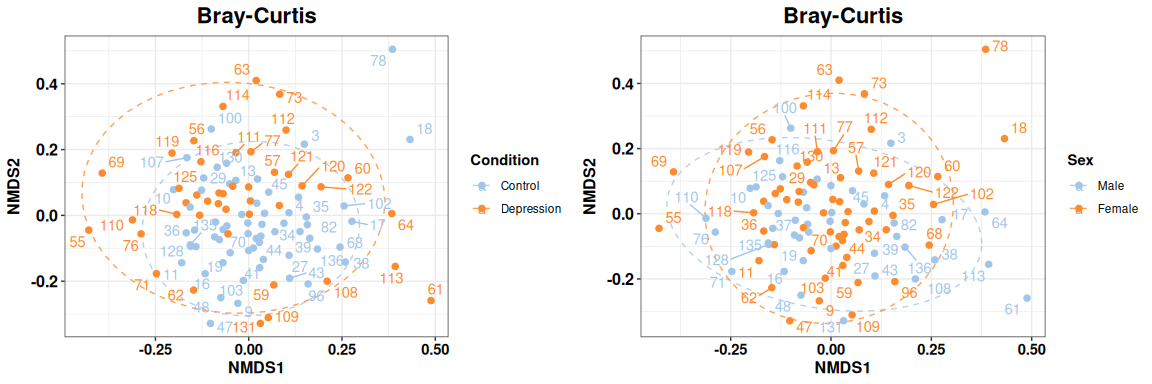
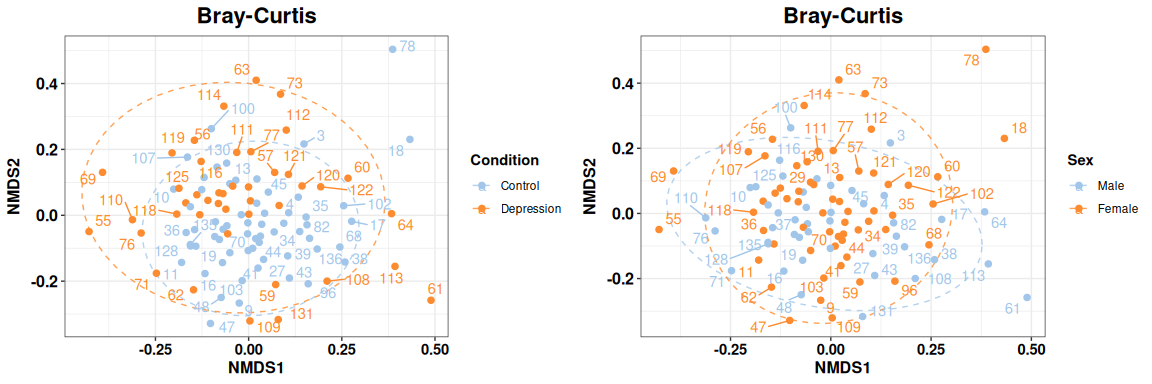
fixed GT sizes

diff --git a/README.md b/README.md
@@ -206,8 +206,6 @@ models$anovas %>% select(-mod1, -mod2, nvars, Index,
 Finally, plot differences (recalculating statistical tests):
 
 ``` r
-library(cowplot)
-
 cat_vars <- c("Condition", "Sex")
 num_vars <- c("BMI", "bristol_scale")
 
@@ -229,8 +227,6 @@ cowplot::plot_grid(plotlist = divplots, nrow = 4)
 PCoA on Bray-Curtis distances:
 
 ``` r
-library(cowplot)
-
 vars <- c("Condition", "Sex", "BMI")
 betaplots <- makeAllPCoAs(phobj_raref, outdir,
                           method = "PCoA",
@@ -250,8 +246,6 @@ cowplot::plot_grid(plotlist = betaplots, nrow = 3)
 NMDS on Bray-Curtis distances:
 
 ``` r
-library(cowplot)
-
 vars <- c("Condition", "Sex")
 betaplots <- makeAllPCoAs(phobj_raref, outdir,
                           method = "NMDS",
@@ -265,37 +259,35 @@ betaplots <- makeAllPCoAs(phobj_raref, outdir,
 #> Square root transformation
 #> Wisconsin double standardization
 #> Run 0 stress 0.2424031 
-#> Run 1 stress 0.2450441 
-#> Run 2 stress 0.2418238 
+#> Run 1 stress 0.2450175 
+#> Run 2 stress 0.2413875 
 #> ... New best solution
-#> ... Procrustes: rmse 0.03592079  max resid 0.2039121 
-#> Run 3 stress 0.2425736 
-#> Run 4 stress 0.2425657 
-#> Run 5 stress 0.2479826 
-#> Run 6 stress 0.2470064 
-#> Run 7 stress 0.243741 
-#> Run 8 stress 0.2436178 
-#> Run 9 stress 0.2453063 
-#> Run 10 stress 0.2422513 
-#> ... Procrustes: rmse 0.03546092  max resid 0.2062974 
-#> Run 11 stress 0.2447231 
-#> Run 12 stress 0.2504898 
-#> Run 13 stress 0.2412017 
+#> ... Procrustes: rmse 0.03453249  max resid 0.2040516 
+#> Run 3 stress 0.2479525 
+#> Run 4 stress 0.241074 
 #> ... New best solution
-#> ... Procrustes: rmse 0.01976362  max resid 0.1553633 
-#> Run 14 stress 0.2414831 
-#> ... Procrustes: rmse 0.01629938  max resid 0.1545399 
-#> Run 15 stress 0.2422512 
-#> Run 16 stress 0.2429346 
-#> Run 17 stress 0.2414664 
-#> ... Procrustes: rmse 0.01344268  max resid 0.09110863 
-#> Run 18 stress 0.2413492 
-#> ... Procrustes: rmse 0.01180794  max resid 0.08008196 
-#> Run 19 stress 0.2416823 
-#> ... Procrustes: rmse 0.01485076  max resid 0.08648119 
-#> Run 20 stress 0.2441167 
+#> ... Procrustes: rmse 0.01783737  max resid 0.1590581 
+#> Run 5 stress 0.2443354 
+#> Run 6 stress 0.2418592 
+#> Run 7 stress 0.2698389 
+#> Run 8 stress 0.2411031 
+#> ... Procrustes: rmse 0.003079735  max resid 0.02145552 
+#> Run 9 stress 0.2413875 
+#> ... Procrustes: rmse 0.01783647  max resid 0.158801 
+#> Run 10 stress 0.2418271 
+#> Run 11 stress 0.2423542 
+#> Run 12 stress 0.2453918 
+#> Run 13 stress 0.2451823 
+#> Run 14 stress 0.2418291 
+#> Run 15 stress 0.2425758 
+#> Run 16 stress 0.2426894 
+#> Run 17 stress 0.2454342 
+#> Run 18 stress 0.2423002 
+#> Run 19 stress 0.2429148 
+#> Run 20 stress 0.2418242 
 #> *** Best solution was not repeated -- monoMDS stopping criteria:
-#>     20: stress ratio > sratmax
+#>      3: no. of iterations >= maxit
+#>     17: stress ratio > sratmax
 
 cowplot::plot_grid(plotlist = betaplots, nrow = 1)
 ```
@@ -417,7 +409,7 @@ taxa2plot <- result$all_contrasts$Condition_Depression_vs_Control$resdf %>% filt
 gtt <- result$all_contrasts$Condition_Depression_vs_Control$res %>% getGTTableFromRes(taxa2plot, "DAA taxa in Depressed vs Controls")
 ```
 
-<img src="man/figures/gt_table.png" width="50%" style="display: block; margin: auto;" />
+<img src="man/figures/gt_table.png" width="70%" style="display: block; margin: auto;" />
 
 See results table for the contrast of Sex:
 
@@ -428,7 +420,7 @@ taxa2plot <- result$all_contrasts$Sex_Female_vs_Male$resdf %>% filter(!is.na(pad
 gtt <- result$all_contrasts$Sex_Female_vs_Male$res %>% getGTTableFromRes(taxa2plot, "DAA taxa in Women vs Men")
 ```
 
-<img src="man/figures/gt_table2.png" width="50%" style="display: block; margin: auto;" />
+<img src="man/figures/gt_table2.png" width="70%" style="display: block; margin: auto;" />
 
 See results table for the contrast of Age:
 
@@ -439,7 +431,7 @@ taxa2plot <- result$all_contrasts$Age$resdf %>% filter(!is.na(padj ) & padj < 0.
 gtt <- result$all_contrasts$Age$res %>% getGTTableFromRes(taxa2plot, "DAA taxa with Age")
 ```
 
-<img src="man/figures/gt_table3.png" width="50%" style="display: block; margin: auto;" />
+<img src="man/figures/gt_table3.png" width="70%" style="display: block; margin: auto;" />
 
 Make heatmap:
 
@@ -520,4 +512,4 @@ gtt <- result_int$all_contrasts$Condition_Depression_vs_Control$res %>%
   getGTTableFromRes(taxa2plot, "DAA between Depr and C controlling for  BMI + Sex * Age")
 ```
 
-<img src="man/figures/gt_table4.png" width="50%" style="display: block; margin: auto;" />
+<img src="man/figures/gt_table4.png" width="70%" style="display: block; margin: auto;" />
